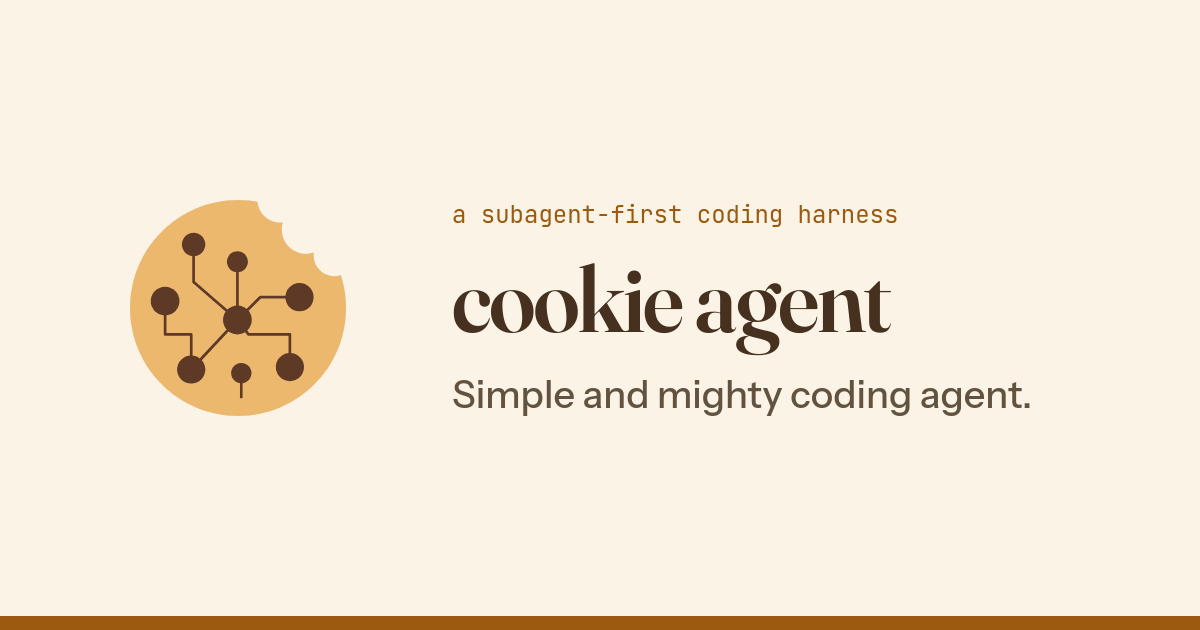
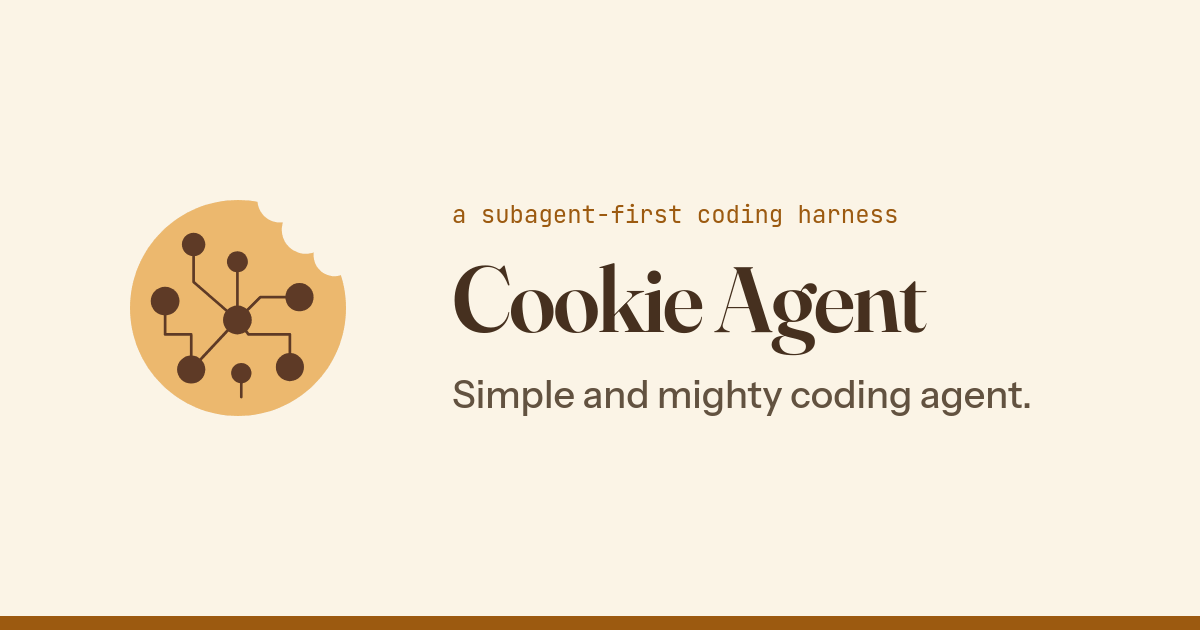
feat: write the product name as Cookie Agent

Changed region(s): [[0.37, 0.4222, 0.7708, 0.573]]

diff --git a/index.html b/index.html
@@ -3,8 +3,8 @@
 <head>
   <meta charset="utf-8">
   <meta name="viewport" content="width=device-width, initial-scale=1">
-  <title>cookie agent · simple and mighty coding agent</title>
-  <meta name="description" content="cookie agent is a Rust coding agent with everything built in and nothing in context you did not ask for: switchable agent presets, delegation and agent-to-agent messaging, a fully observable context, and one daemon you reach from a terminal or a browser while tools run on any machine.">
+  <title>Cookie Agent · simple and mighty coding agent</title>
+  <meta name="description" content="Cookie Agent is a Rust coding agent with everything built in and nothing in context you did not ask for: switchable agent presets, delegation and agent-to-agent messaging, a fully observable context, and one daemon you reach from a terminal or a browser while tools run on any machine.">
   <meta name="theme-color" content="#fbf4e6" media="(prefers-color-scheme: light)">
   <meta name="theme-color" content="#201c16" media="(prefers-color-scheme: dark)">
   <link rel="canonical" href="https://cookie-agent.github.io/">
@@ -12,13 +12,13 @@
   <link rel="apple-touch-icon" href="apple-touch-icon.png">
 
   <meta property="og:type" content="website">
-  <meta property="og:title" content="cookie agent">
+  <meta property="og:title" content="Cookie Agent">
   <meta property="og:description" content="Simple and mighty coding agent.">
   <meta property="og:url" content="https://cookie-agent.github.io/">
   <meta property="og:image" content="https://cookie-agent.github.io/og.png">
   <meta property="og:image:width" content="1200">
   <meta property="og:image:height" content="630">
-  <meta property="og:image:alt" content="cookie agent: Simple and mighty coding agent.">
+  <meta property="og:image:alt" content="Cookie Agent: Simple and mighty coding agent.">
   <meta name="twitter:card" content="summary_large_image">
 
   <script>
@@ -43,7 +43,7 @@
     <div class="wrap">
       <a class="brand" href="./">
         <img src="logo.svg" alt="" width="40" height="40">
-        <span>cookie agent</span>
+        <span>Cookie Agent</span>
       </a>
       <nav class="site-nav" aria-label="Primary">
         <button class="theme-toggle" type="button" aria-label="Switch theme" title="Switch theme">
@@ -92,7 +92,7 @@
           </div>
         </div>
         <div class="hero-art">
-          <img src="logo.svg" alt="The cookie agent logo: a cookie with a bite taken out, its chips wired together like a circuit" width="440" height="440">
+          <img src="logo.svg" alt="The Cookie Agent logo: a cookie with a bite taken out, its chips wired together like a circuit" width="440" height="440">
         </div>
       </div>
     </section>
@@ -110,7 +110,7 @@
               <li>Plugins, skills and MCP servers extend it without touching the core.</li>
             </ul>
           </div>
-          <div class="panel layers" aria-label="Built into cookie agent">
+          <div class="panel layers" aria-label="Built into Cookie Agent">
             <p class="layer-label">Built in</p>
             <ul class="chips">
               <li>providers</li>
@@ -385,8 +385,8 @@ snapshot. Start in session/store.rs.
         </div>
         <div class="wrap shots-row">
           <figure class="shots">
-            <img class="shot desktop for-light" src="web-light.webp" width="1280" height="800" loading="lazy" decoding="async" alt="The cookie agent web client in a browser: a session titled Fix the greeting in greet.py, where the agent edits greet.py (shown as a diff), runs python3 test_greet.py (shown as terminal output), and reports the fix.">
-            <img class="shot desktop for-dark" src="web-dark.webp" width="1280" height="800" loading="lazy" decoding="async" alt="The cookie agent web client in a browser, dark theme: the agent edits greet.py, runs its check, and reports the fix.">
+            <img class="shot desktop for-light" src="web-light.webp" width="1280" height="800" loading="lazy" decoding="async" alt="The Cookie Agent web client in a browser: a session titled Fix the greeting in greet.py, where the agent edits greet.py (shown as a diff), runs python3 test_greet.py (shown as terminal output), and reports the fix.">
+            <img class="shot desktop for-dark" src="web-dark.webp" width="1280" height="800" loading="lazy" decoding="async" alt="The Cookie Agent web client in a browser, dark theme: the agent edits greet.py, runs its check, and reports the fix.">
             <img class="shot phone for-light" src="web-phone-light.webp" width="392" height="848" loading="lazy" decoding="async" alt="The same session in the web client on a phone.">
             <img class="shot phone for-dark" src="web-phone-dark.webp" width="392" height="848" loading="lazy" decoding="async" alt="The same session in the web client on a phone, dark theme.">
           </figure>
@@ -429,7 +429,7 @@ snapshot. Start in session/store.rs.
 
   <footer class="site-footer">
     <div class="wrap">
-      <span>cookie agent · MIT License</span>
+      <span>Cookie Agent · MIT License</span>
       <nav aria-label="Footer">
         <a href="https://cookie-agent.github.io/doc/">Documentation</a>
         <a href="https://cookie-agent.github.io/doc/latest/install/">Installation</a>

diff --git a/og/card.html b/og/card.html
@@ -2,7 +2,7 @@
 <html lang="en">
 <head>
   <meta charset="utf-8">
-  <title>cookie agent social card</title>
+  <title>Cookie Agent social card</title>
   <!-- The 1200×630 social card, og.png: see README.md for how to render it. -->
   <link rel="stylesheet" href="https://fonts.googleapis.com/css2?family=Fraunces:opsz,wght@9..144,600&family=Instrument+Sans:wght@500&family=JetBrains+Mono:wght@400&display=block">
   <style>
@@ -30,7 +30,7 @@
   <img src="../logo.svg" alt="">
   <div>
     <p class="eyebrow">a subagent-first coding harness</p>
-    <h1>cookie agent</h1>
+    <h1>Cookie Agent</h1>
     <p class="tag">Simple and mighty coding agent.</p>
   </div>
 </body>

diff --git a/404.html b/404.html
@@ -3,7 +3,7 @@
 <head>
   <meta charset="utf-8">
   <meta name="viewport" content="width=device-width, initial-scale=1">
-  <title>Page not found · cookie agent</title>
+  <title>Page not found · Cookie Agent</title>
   <link rel="icon" href="/logo.svg" type="image/svg+xml">
   <script>
     // Apply the theme chosen here or in the docs before first paint. Both

diff --git a/README.md b/README.md
@@ -1,6 +1,6 @@
 # cookie-agent.github.io
 
-Landing page for [cookie agent](https://github.com/cookie-agent/cookie-agent),
+Landing page for [Cookie Agent](https://github.com/cookie-agent/cookie-agent),
 served at <https://cookie-agent.github.io/>. The documentation lives in the
 separate `cookie-agent/doc` repository and is served under `/doc/`.
 
